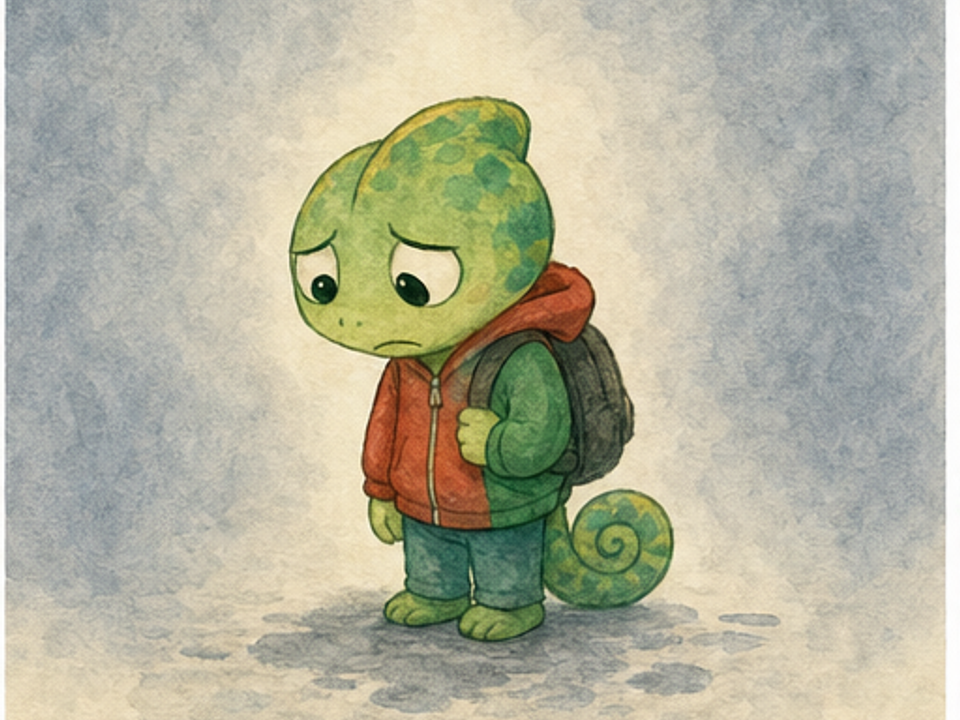
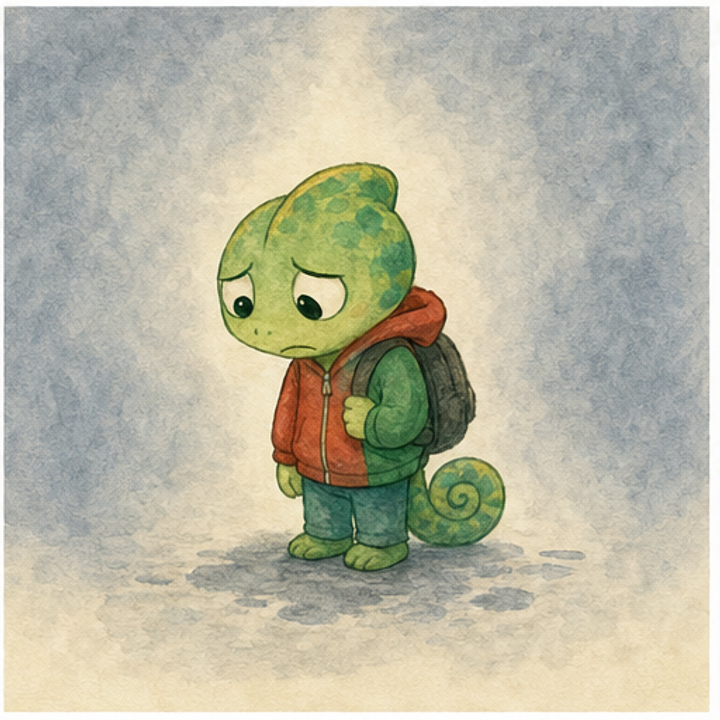
속담 v10: 연출창 이미지 꽉 채움, 1번 교훈 문구 수정

diff --git a/src/components/VisualStage.tsx b/src/components/VisualStage.tsx
@@ -130,7 +130,7 @@ export function VisualStage({
         embedded
           ? 'relative h-full w-full overflow-hidden rounded-xl border border-slate-800 bg-slate-950 shadow-inner'
           : compact
-            ? 'relative mx-auto aspect-[16/10] h-full w-full max-h-full max-w-2xl overflow-hidden rounded-xl border border-slate-800 bg-slate-950 shadow-inner'
+            ? 'relative h-full w-full min-h-0 overflow-hidden rounded-xl border border-slate-800 bg-slate-950 shadow-inner'
             : large
               ? 'relative mx-auto aspect-[4/3] h-full w-full max-h-full max-w-3xl overflow-hidden rounded-2xl border border-slate-800 bg-slate-950 shadow-inner'
               : 'relative mx-auto aspect-[16/9] w-full max-w-4xl overflow-hidden rounded-2xl border border-slate-800 bg-slate-950 shadow-inner'
@@ -152,7 +152,7 @@ export function VisualStage({
               ? 'left center'
               : 'center center'
         const faceZoom = !centerImages && fill && !hasPlate && (l.scale ?? 1) > 1.02
-        const centerCrop = centerImages && fill && !hasPlate
+        const proverbFill = centerImages && fill && !hasPlate
         const layoutMotion = hasPlate ? 'transition-[left,width] duration-[480ms] ease-out' : ''
 
         return (
@@ -187,14 +187,28 @@ export function VisualStage({
                     </div>
                   </div>
                 ) : fill ? (
-                  <div className="relative h-full w-full">
+                  <div
+                    className={
+                      proverbFill
+                        ? 'flex h-full w-full items-center justify-center'
+                        : 'relative h-full w-full'
+                    }
+                  >
                     <LayerPicture
                       imageUrl={imageUrl}
                       label={l.label}
-                      className="h-full w-full object-cover"
+                      className={
+                        proverbFill
+                          ? 'max-h-full max-w-full object-contain'
+                          : 'h-full w-full object-cover'
+                      }
                       style={
-                        centerCrop
-                          ? { objectPosition: 'center center' }
+                        proverbFill
+                          ? {
+                              objectPosition: 'center center',
+                              width: '100%',
+                              height: '100%',
+                            }
                           : faceZoom
                             ? { objectPosition: 'center 18%' }
                             : undefined

diff --git a/src/pages/PlayPage.tsx b/src/pages/PlayPage.tsx
@@ -328,7 +328,7 @@ export default function PlayPage() {
 
       {isStacked ? (
         <main className="mx-auto flex min-h-0 w-full max-w-6xl flex-1 flex-col gap-1 overflow-hidden px-2 py-1.5 sm:px-4 sm:py-2">
-          <div className="flex min-h-0 flex-1 items-center justify-center overflow-hidden rounded-xl border border-stone-200 bg-stone-900/95 p-1 shadow-inner">
+          <div className="flex min-h-0 flex-1 items-stretch justify-center overflow-hidden rounded-xl border border-stone-200 bg-stone-950 shadow-inner">
             <VisualStage
               layers={layers}
               overlayCaption={closingCaption}

diff --git a/src/data/kindWordsProverbSentence.ts b/src/data/kindWordsProverbSentence.ts
@@ -74,6 +74,6 @@ export function createKindWordsProverbSentence(): SentenceBlock {
       },
     ],
     cues,
-    closingLine: '먼저 말을 고우면, 돌아오는 말도 곱단다.',
+    closingLine: '먼저 말을 곱게 하면, 돌아오는 말도 곱다.',
   }
 }

diff --git a/src/data/packContentVersions.ts b/src/data/packContentVersions.ts
@@ -4,7 +4,7 @@
  */
 export const PACK_CONTENT_VERSIONS: Record<string, string> = {
   'demo-separation-three-powers': '9',
-  'elementary-proverbs': '9',
+  'elementary-proverbs': '10',
 }
 
 export function getPackContentVersion(bookId: string): string {
